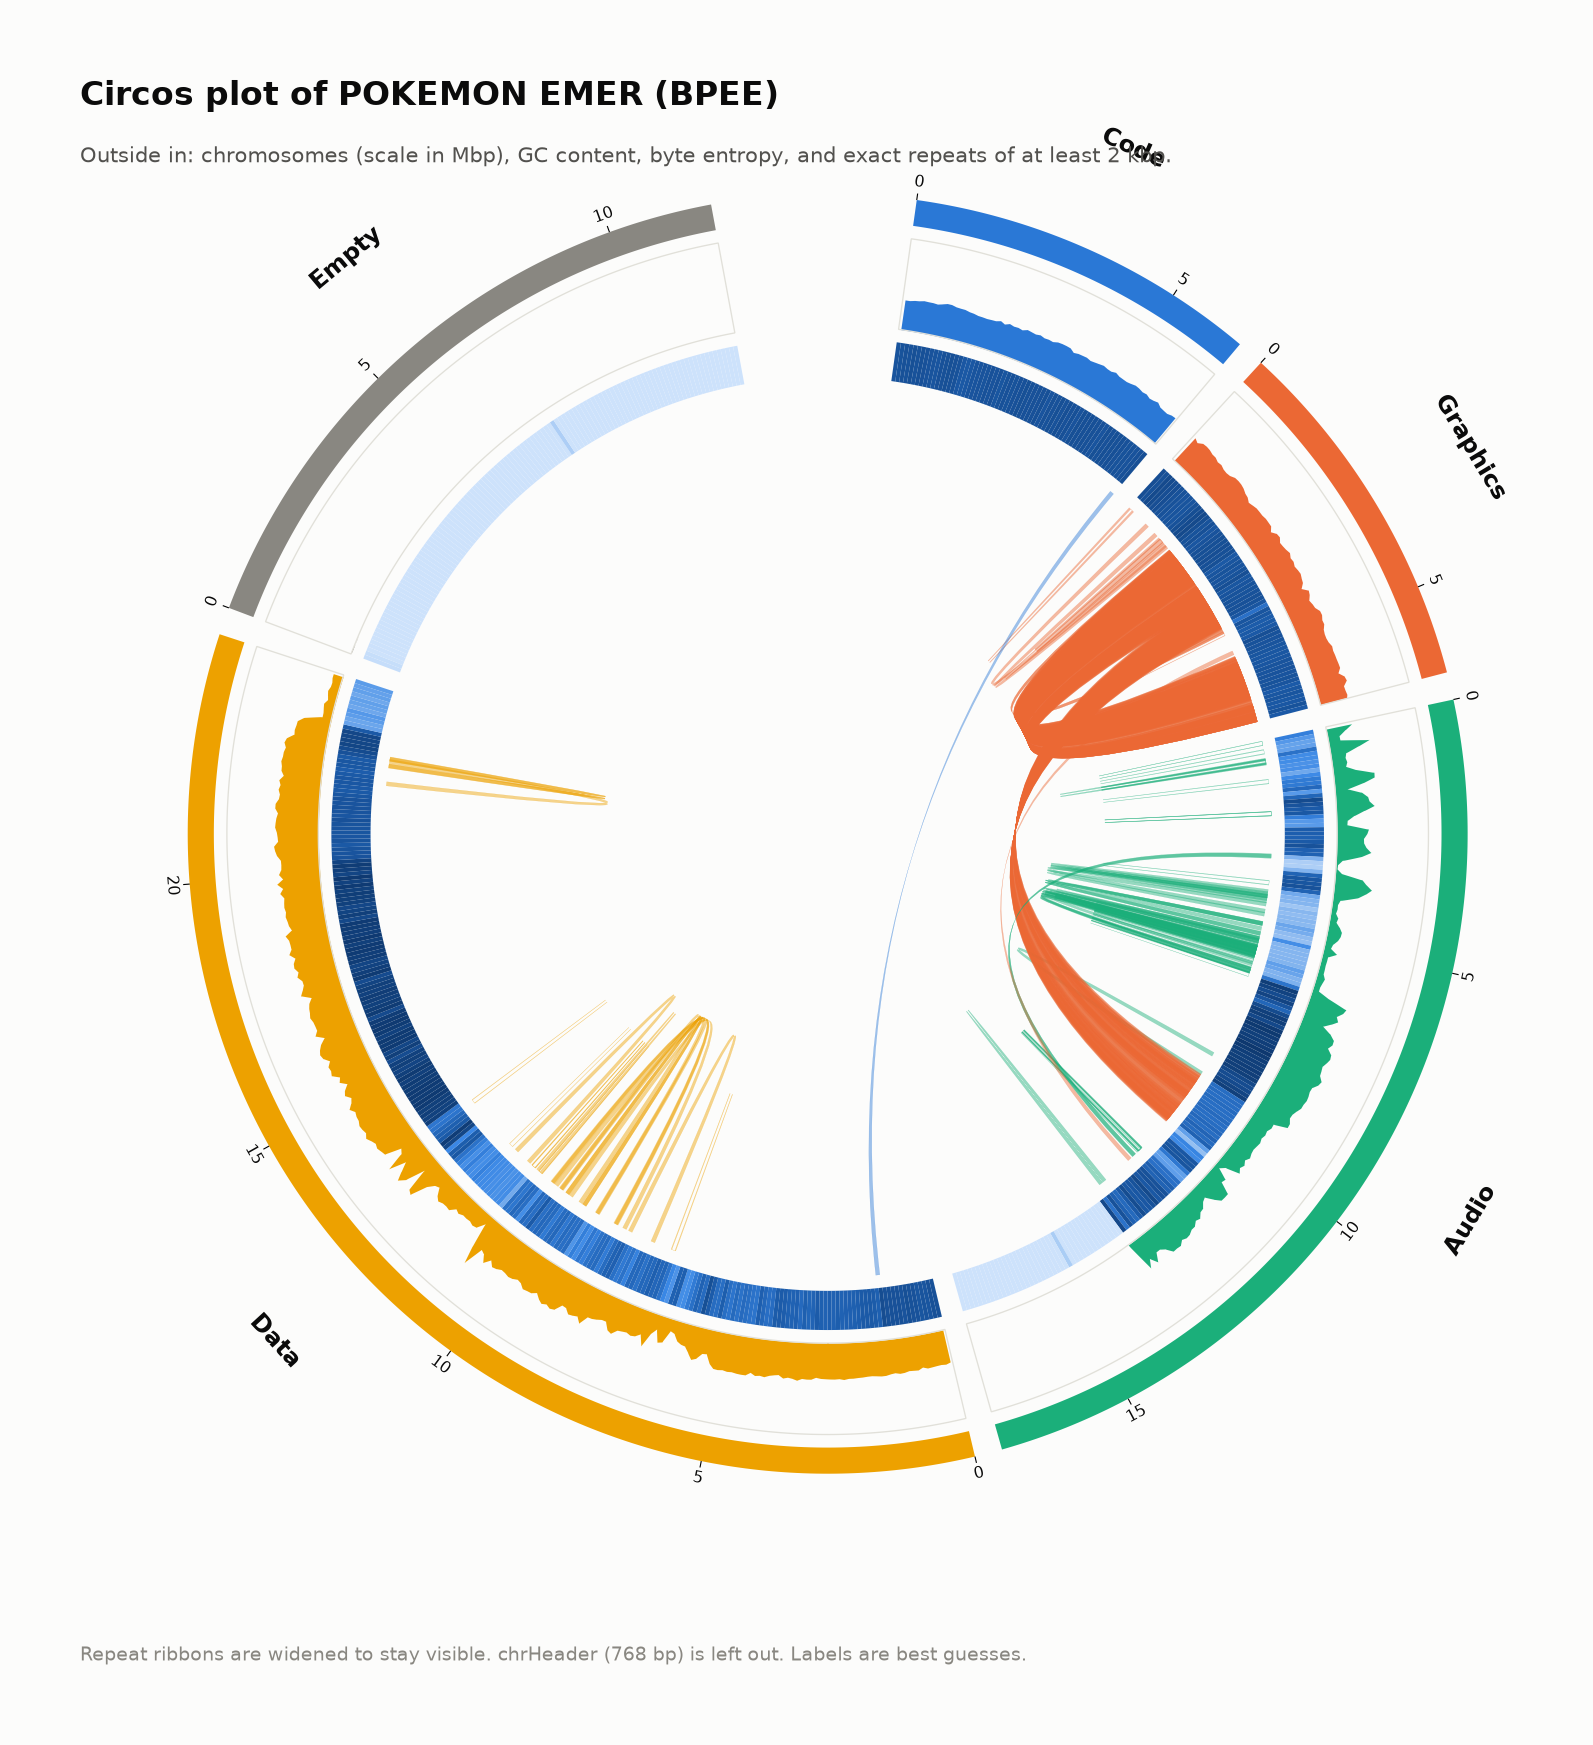
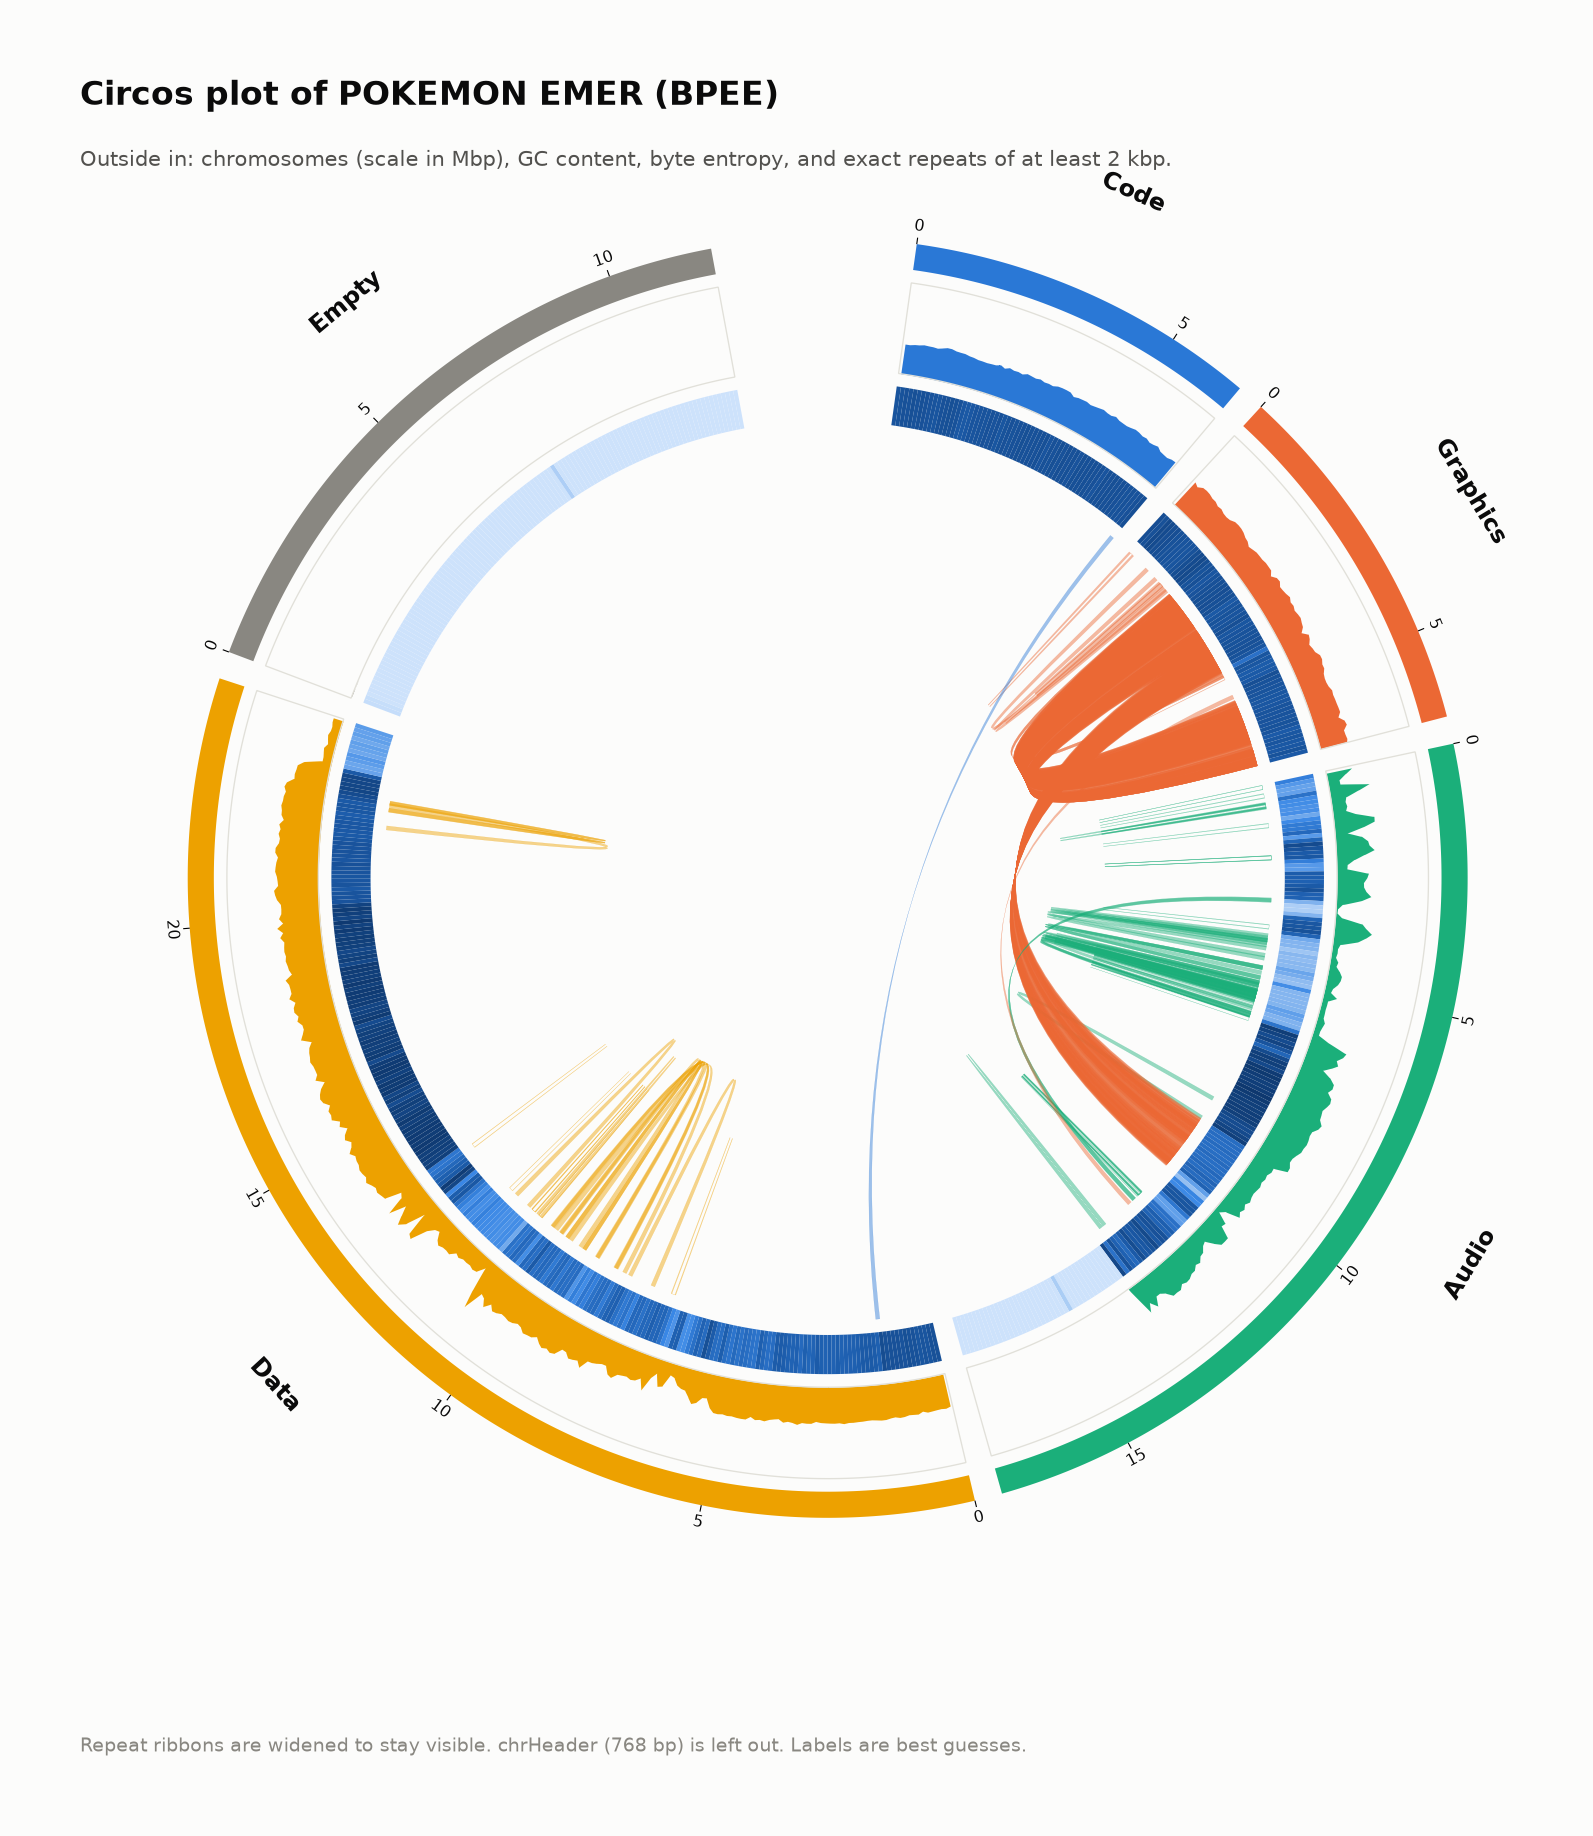
Keep the Circos subtitle clear of the chromosome labels

diff --git a/web/study.html b/web/study.html
@@ -49,7 +49,7 @@
   </figure>
 
   <figure>
-    <a href="study/circos.png"><img src="study/circos.png" width="1593" height="1745" loading="lazy" alt="Circos plot with rings for chromosomes, GC content and byte entropy, and ribbons joining repeated stretches. The thickest ribbons join chrGraphics to itself and to chrAudio."></a>
+    <a href="study/circos.png"><img src="study/circos.png" width="1593" height="1836" loading="lazy" alt="Circos plot with rings for chromosomes, GC content and byte entropy, and ribbons joining repeated stretches. The thickest ribbons join chrGraphics to itself and to chrAudio."></a>
     <figcaption><strong>Circos plot.</strong> The search found 297 exact repeats of at least 2 kbp, covering 1.3 Mbp. 74 of them cross between chromosomes, so some of the same bytes received different labels.</figcaption>
   </figure>
 

diff --git a/scripts/plot-study.py b/scripts/plot-study.py
@@ -228,8 +228,8 @@ def circos_plot(tables, folder, name):
             r2=68,
         )
 
-    figure = circos.plotfig(figsize=(9.5, 10.4))
-    figure.axes[0].set_position((0.08, 0.06, 0.84, 0.78))
+    figure = circos.plotfig(figsize=(9.5, 11))
+    figure.axes[0].set_position((0.08, 0.05, 0.84, 0.76))
     heading(
         figure,
         f"Circos plot of {name}",
